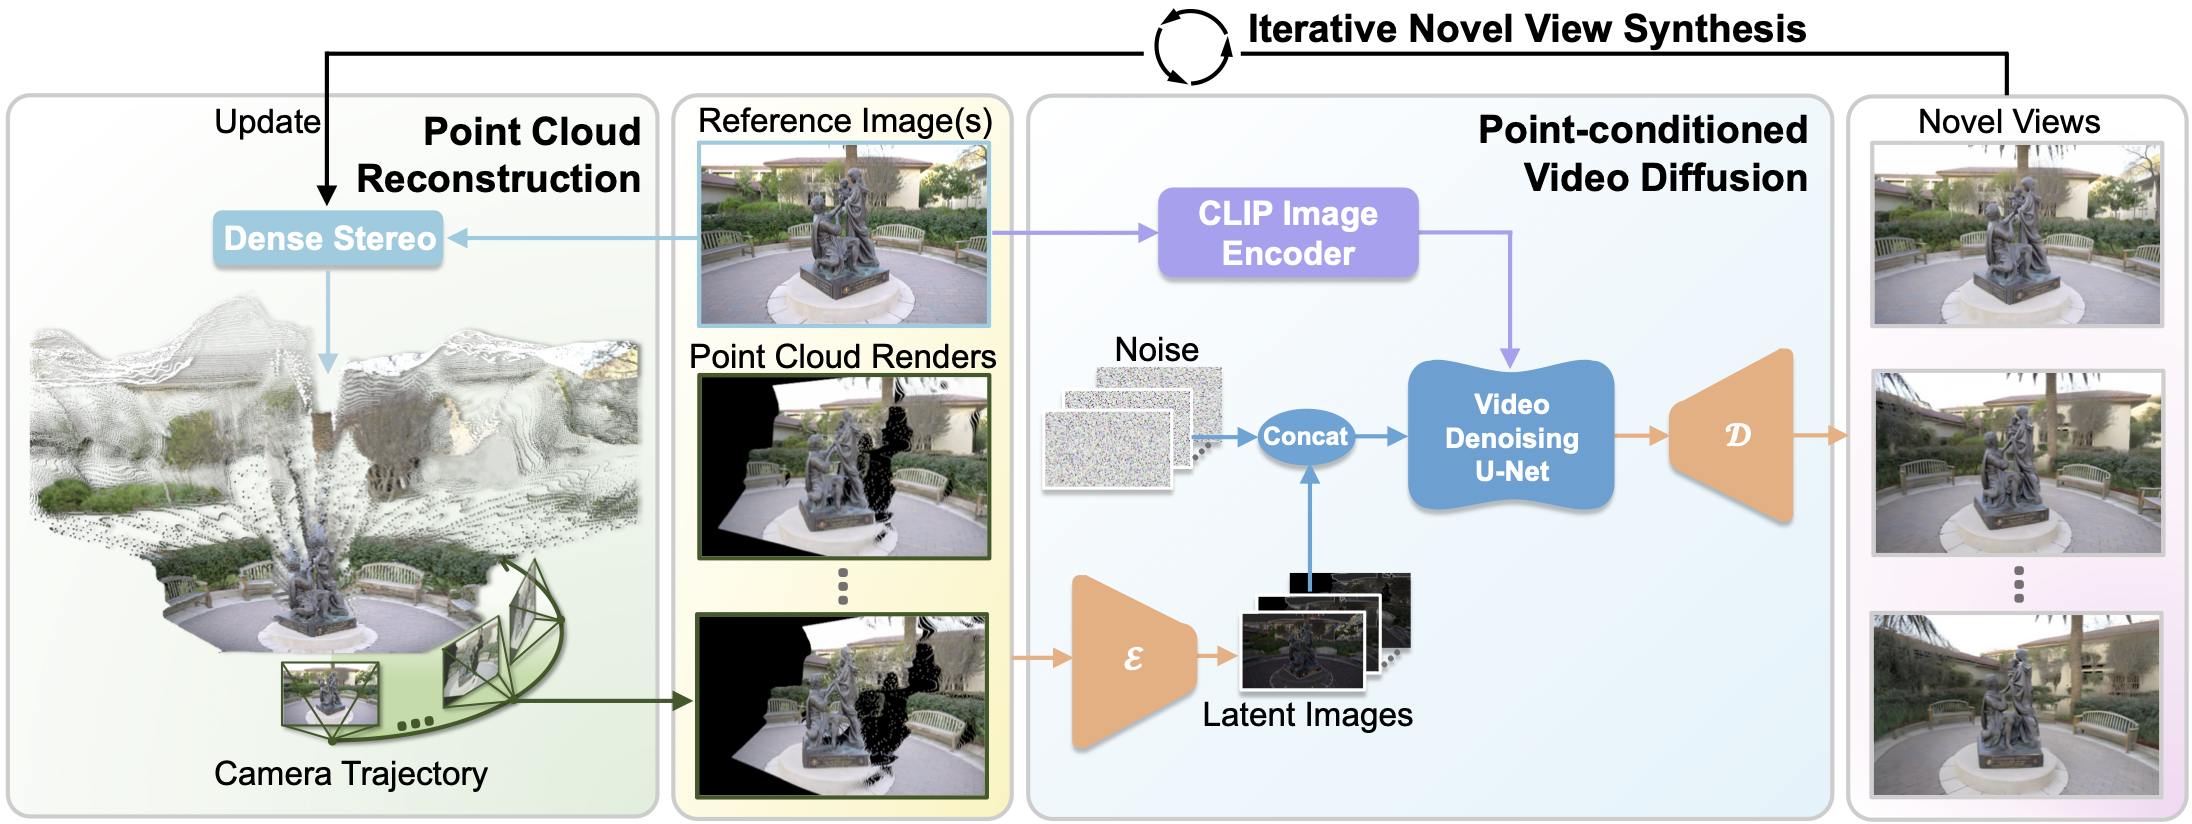
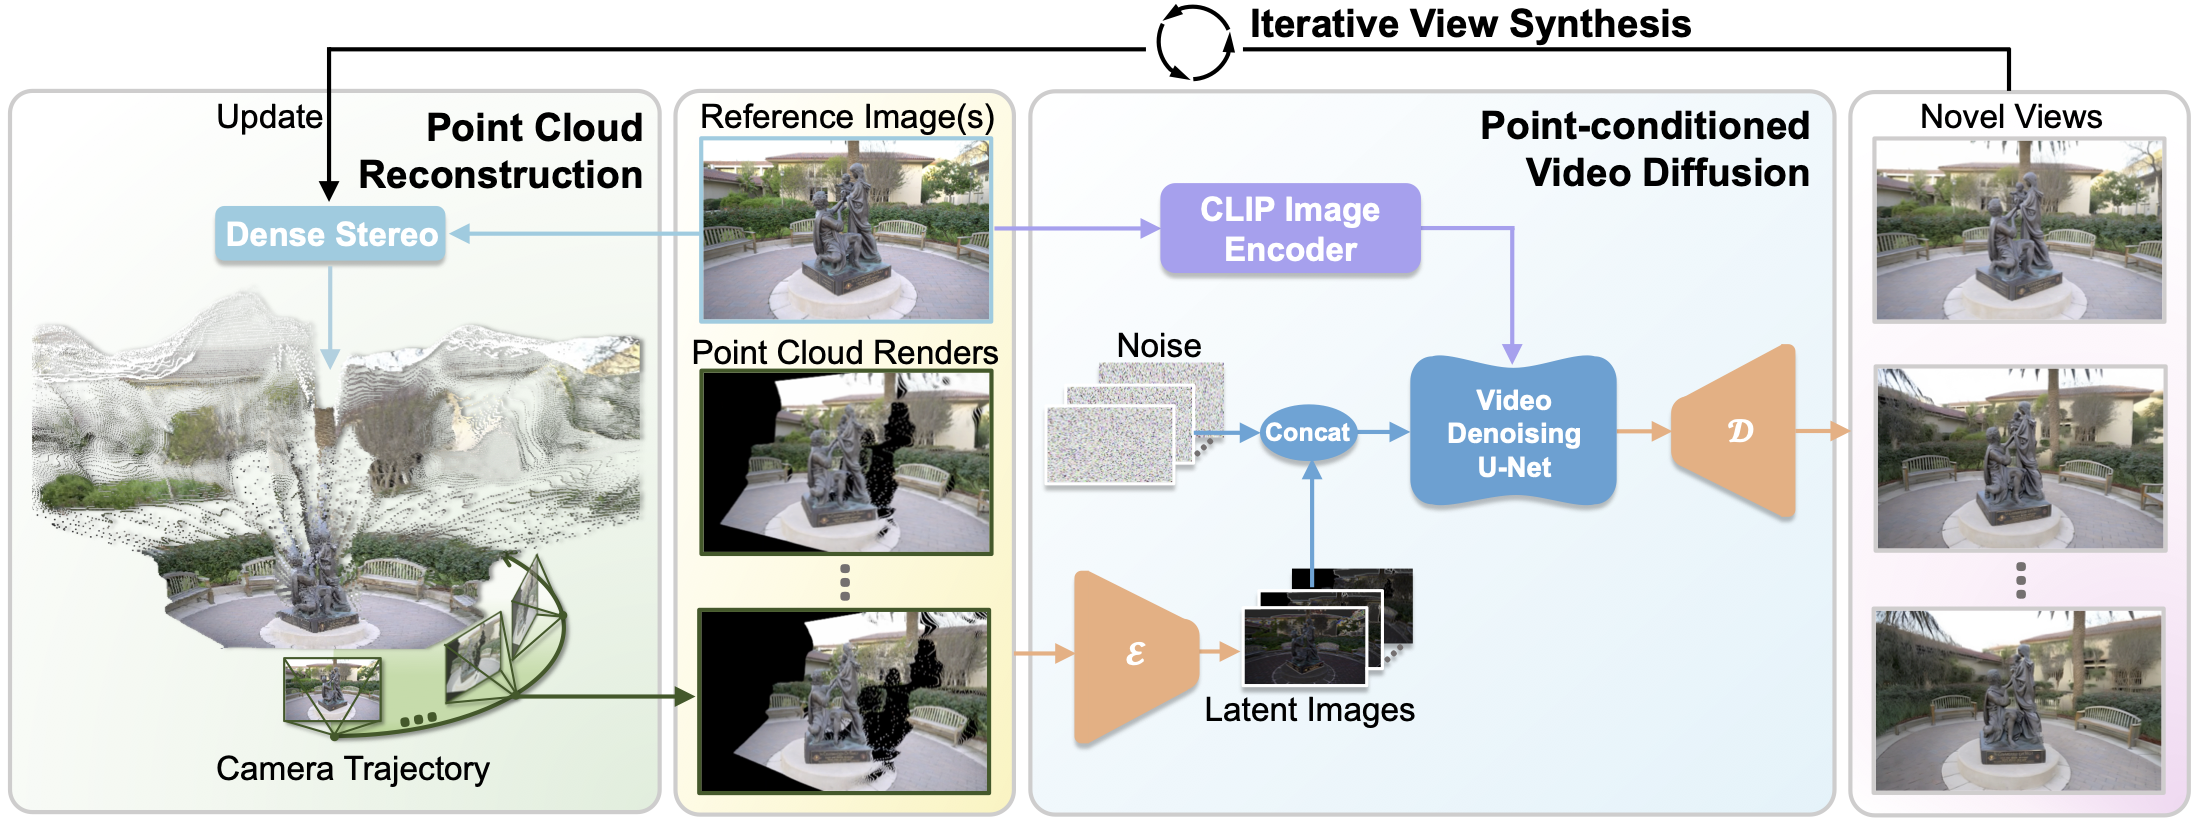
update

diff --git a/ViewCrafter/index.html b/ViewCrafter/index.html
@@ -320,7 +320,7 @@
           <div class="content has-text-justified">
             <img src="./static/images/pipeline1.png">
 
-            <p>Given a single reference image or sparse image sets, we first build its point cloud representation using a dense stereo model, which enables accurately moving cameras for free-view rendering. Subsequently, to address the large missing regions, geometric distortions, and point cloud artifacts exhibited in the rendered images, we train a point-conditioned video diffusion model to serve as an enhanced renderer, facilitating the generation of high-fidelity and consistent novel views based on the coarse point cloud renders. For long-range novel view synthesis, we adopt an iterative novel view synthesis strategy to iteratively move cameras, generate novel views, and update the point cloud.</p>
+            <p>Given a single reference image or sparse image sets, we first build its point cloud representation using a dense stereo model, which enables accurately moving cameras for free-view rendering. Subsequently, to address the large missing regions, geometric distortions, and point cloud artifacts exhibited in the point cloud render results, we train a point-conditioned video diffusion model to serve as an enhanced renderer, facilitating the generation of high-fidelity and consistent novel views based on the coarse point cloud renders. To achieve long-range novel view synthesis, we adopt an iterative view synthesis strategy that involves iteratively moving cameras, generating novel views, and updating the point cloud, which enables a more complete point cloud reconstruction and benefits downstream tasks such as 3D-GS optimization.</p>
           </div>
           <br>
           <div class="content has-text-justified">
